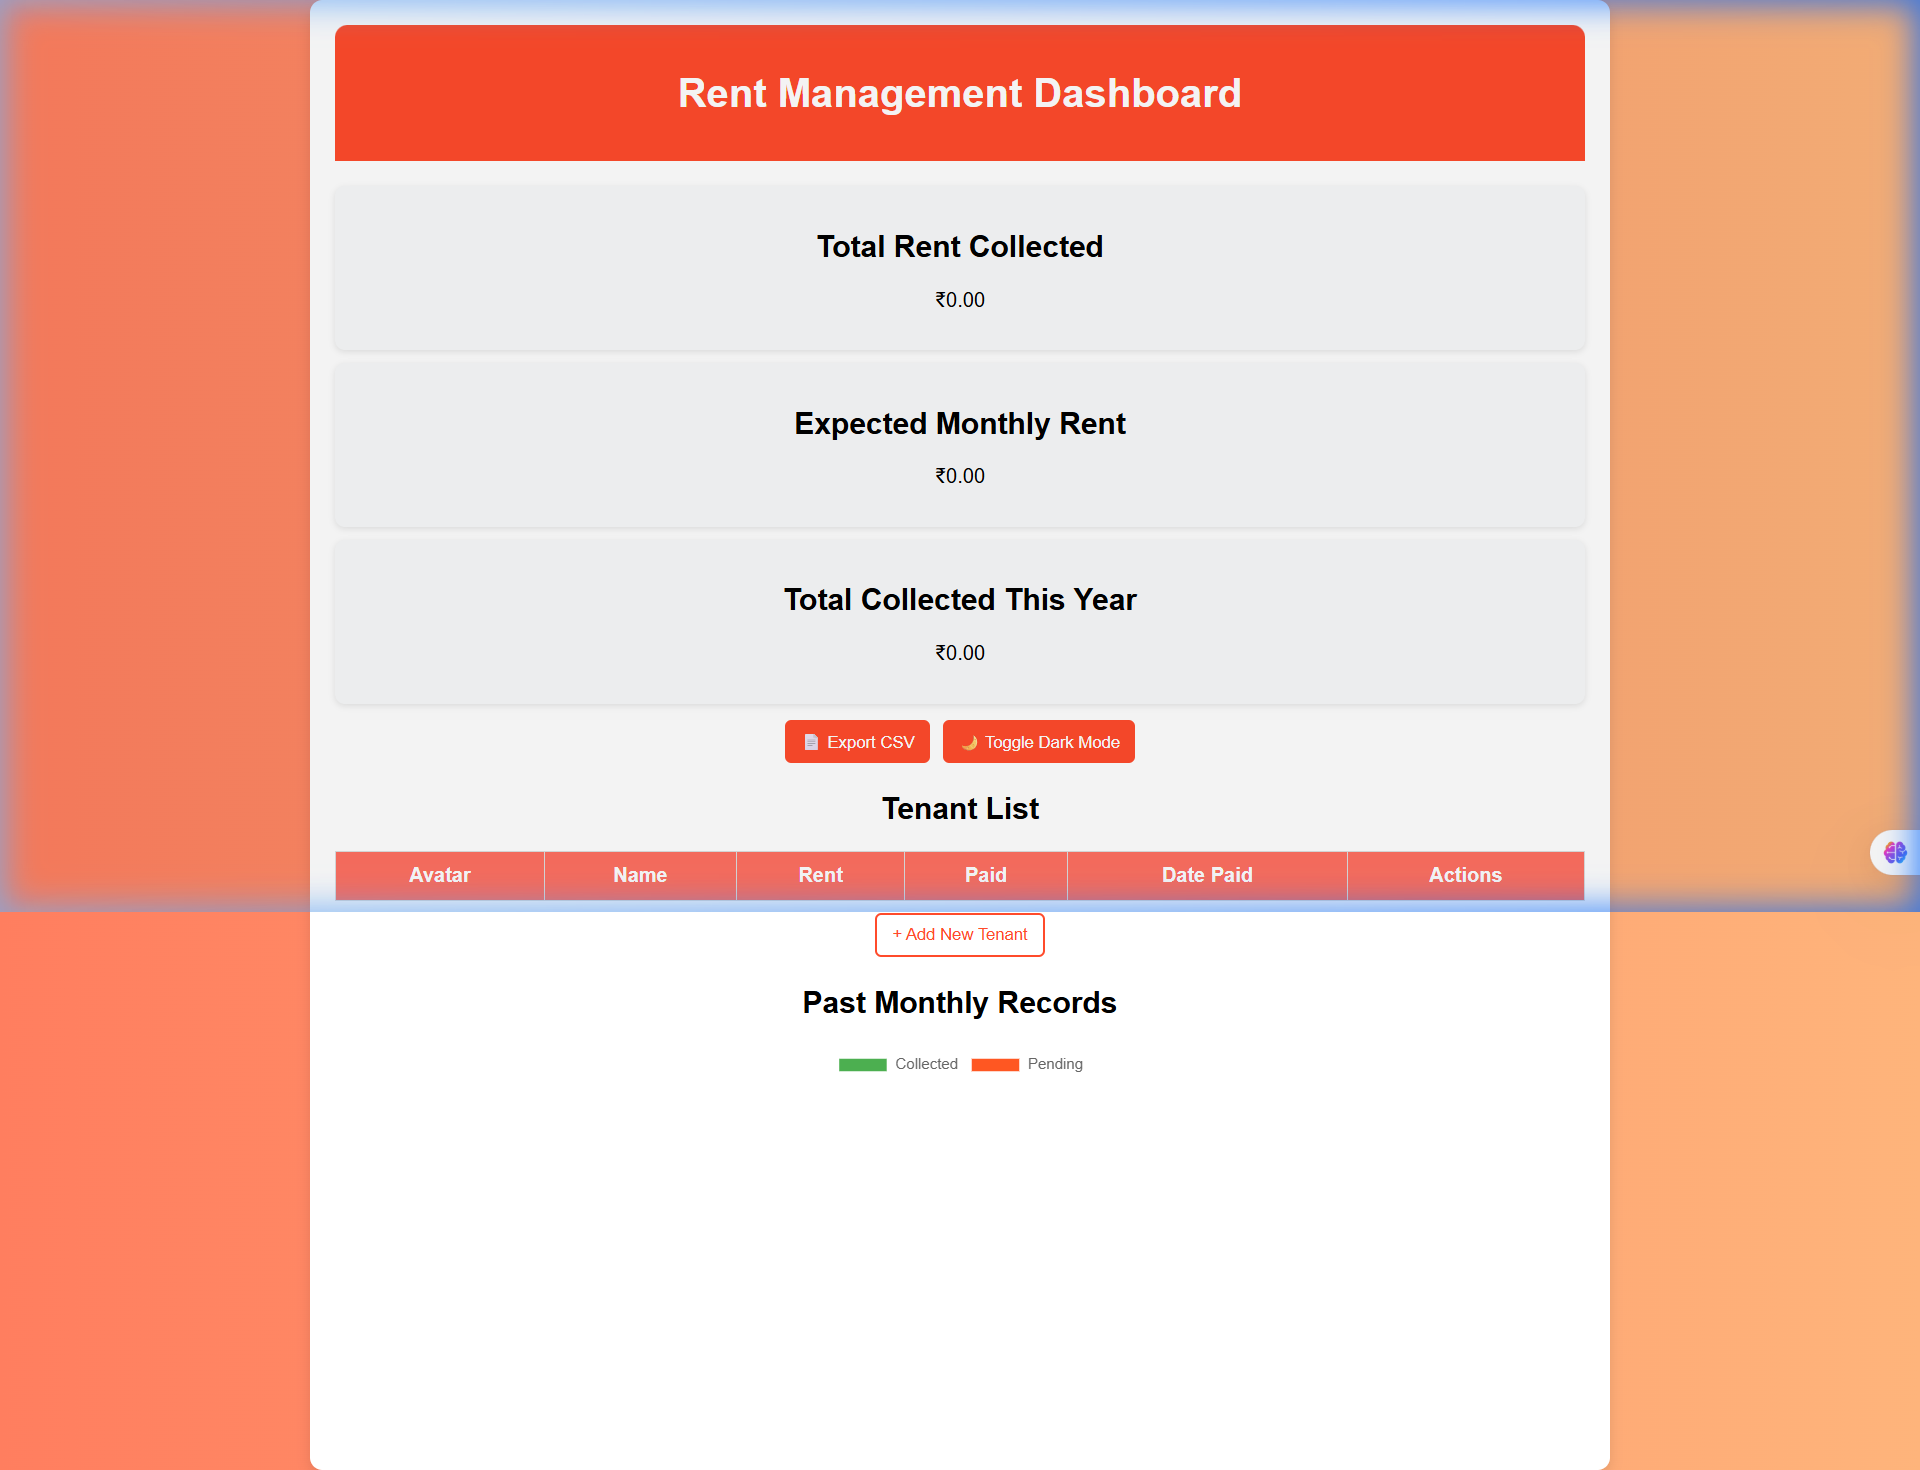
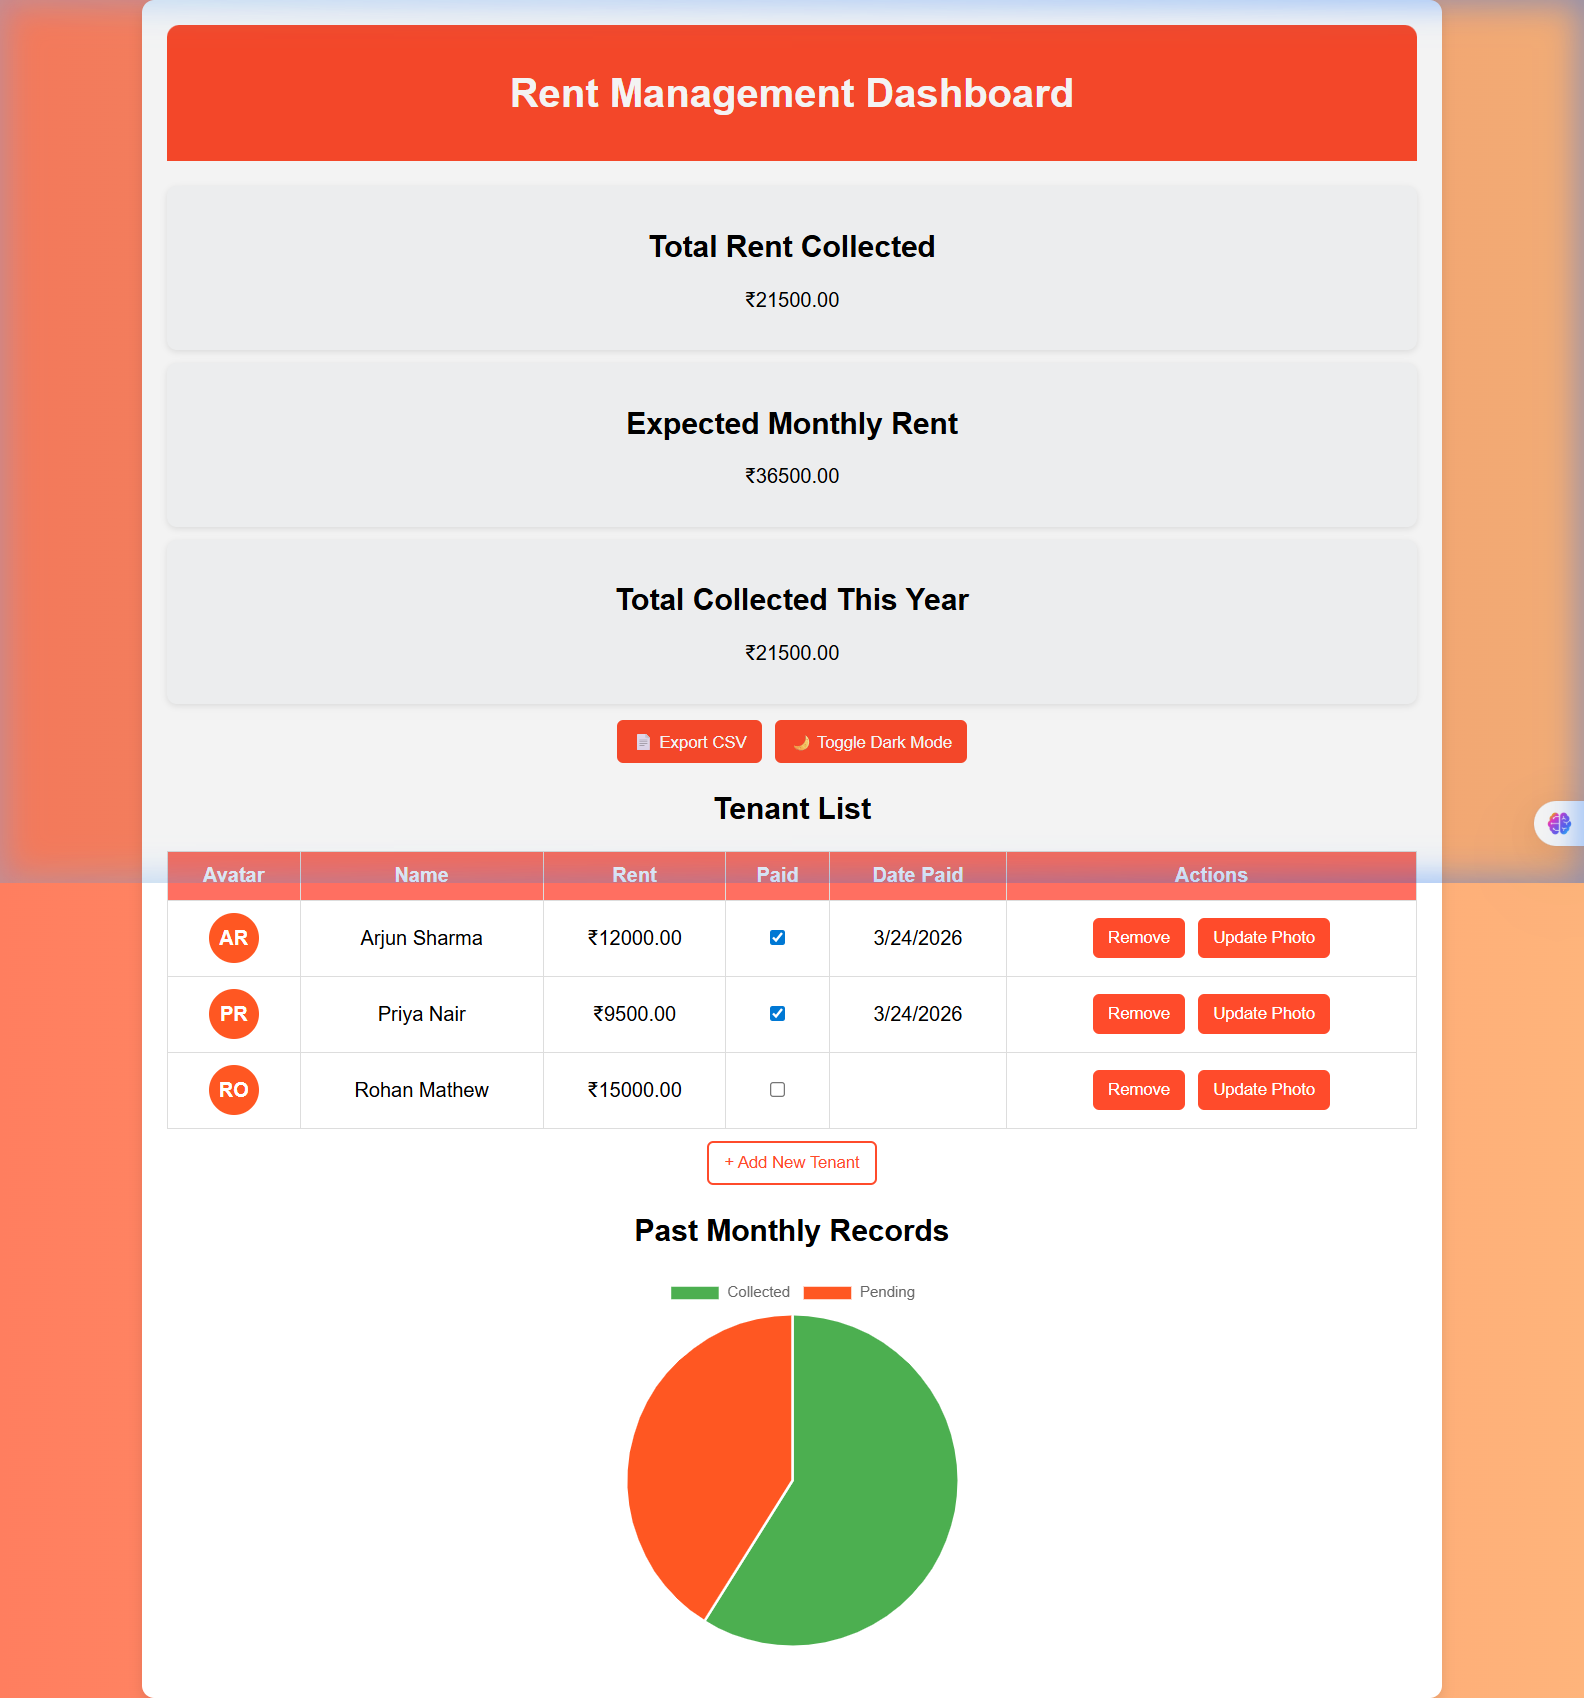
Update README and screenshots with clean dashboard

Changed region(s): [[0.0, 0.0, 1.0, 1.0]]

diff --git a/README.md b/README.md
@@ -8,10 +8,13 @@ A lightweight, single-page web application to manage rental properties, track te
 
 ## 📸 Screenshots
 
-### 🌤 Light Mode Dashboard
-![Rent Management Dashboard - Light Mode](https://raw.githubusercontent.com/eldhosegeorge2004/Rent_Management_First/main/screenshots/dashboard_light.png)
+### 🏠 Dashboard with Tenant Data
+![Rent Management Dashboard](https://raw.githubusercontent.com/eldhosegeorge2004/Rent_Management_First/main/screenshots/dashboard_clean.png)
 
-### 🌑 Dark Mode Dashboard
+### 📊 Live Dashboard View
+![Rent Management Dashboard - Live](https://raw.githubusercontent.com/eldhosegeorge2004/Rent_Management_First/main/screenshots/dashboard_light.png)
+
+### 🌑 Dark Mode
 ![Rent Management Dashboard - Dark Mode](https://raw.githubusercontent.com/eldhosegeorge2004/Rent_Management_First/main/screenshots/dashboard_dark.png)
 
 ### ➕ Add New Tenant Form
